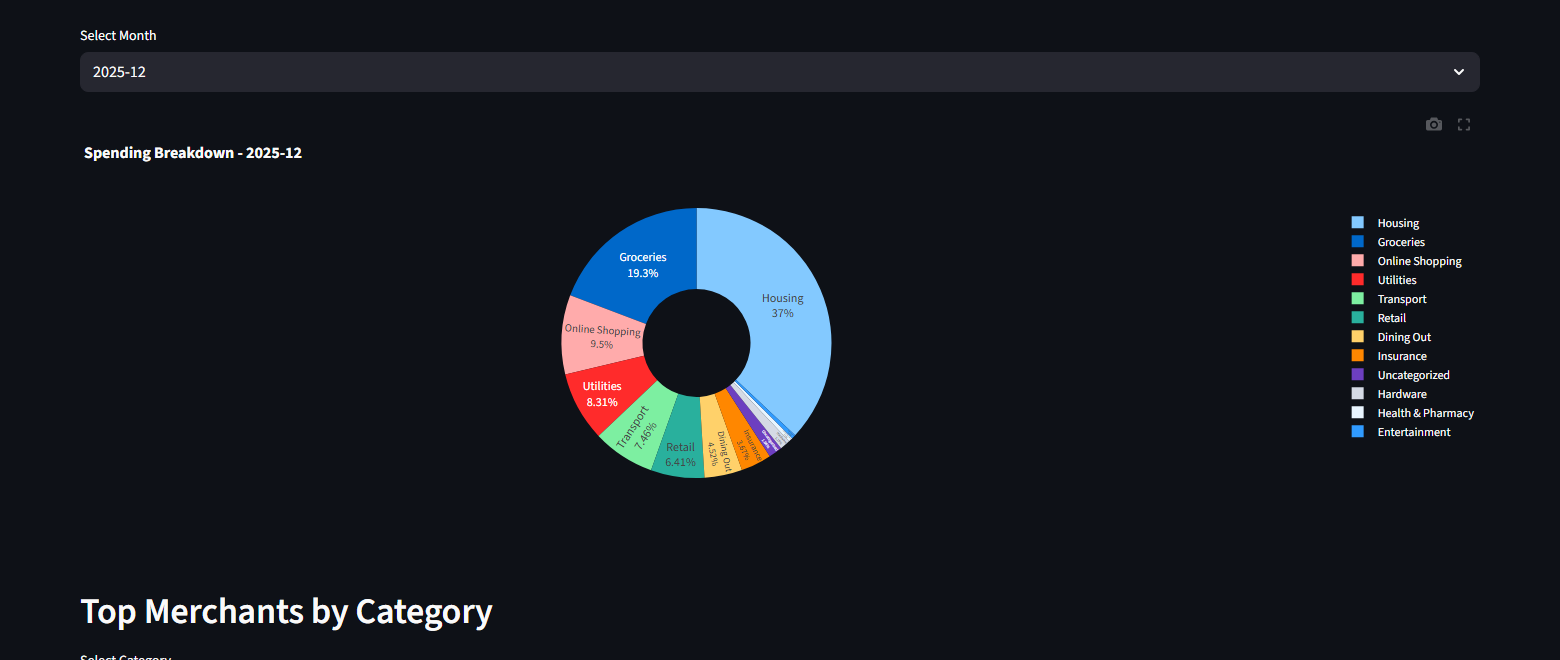
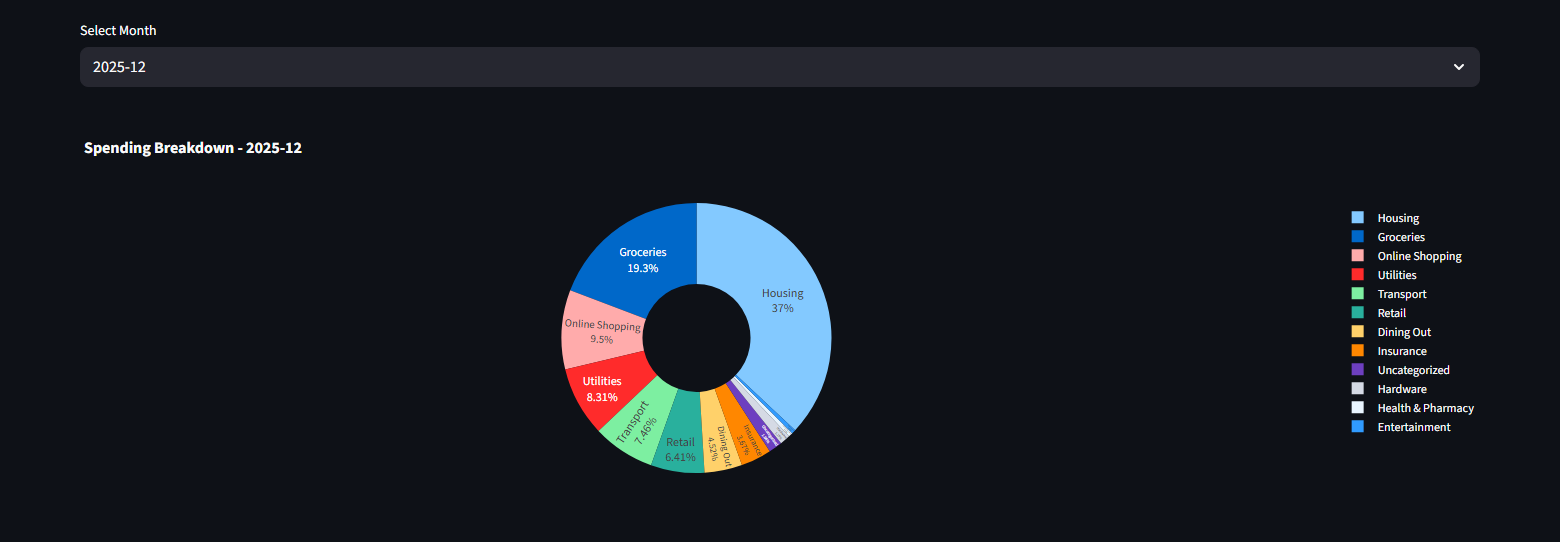
Trim screenshots to their own sections; update Streamlit badge
Each screenshot ended with the following section's heading, which then
repeated at the top of the next image. Section boundaries are now
measured from the rendered page so every capture stops above the next
heading.

Also points the badge at the current Streamlit deployment.

diff --git a/README.md b/README.md
@@ -3,7 +3,7 @@
 A Python-based ETL pipeline for tracking and categorizing personal spending across multiple bank accounts, with an interactive Streamlit dashboard for visualization and analysis.
 
 [![License: MIT](https://img.shields.io/badge/License-MIT-yellow.svg)](https://opensource.org/licenses/MIT)
-[![Open in Streamlit](https://static.streamlit.io/badges/streamlit_badge_black_white.svg)](https://personal-finance-edrh4awtgn6gcyvja8ayuq.streamlit.app/)
+[![Open in Streamlit](https://static.streamlit.io/badges/streamlit_badge_black_white.svg)](https://personal-finance-ygkaqmswhakhgqdcf4ebtg.streamlit.app/)
 
 See [NOTES.md](NOTES.md) for detailed learning notes and thought process throughout this project.
 
